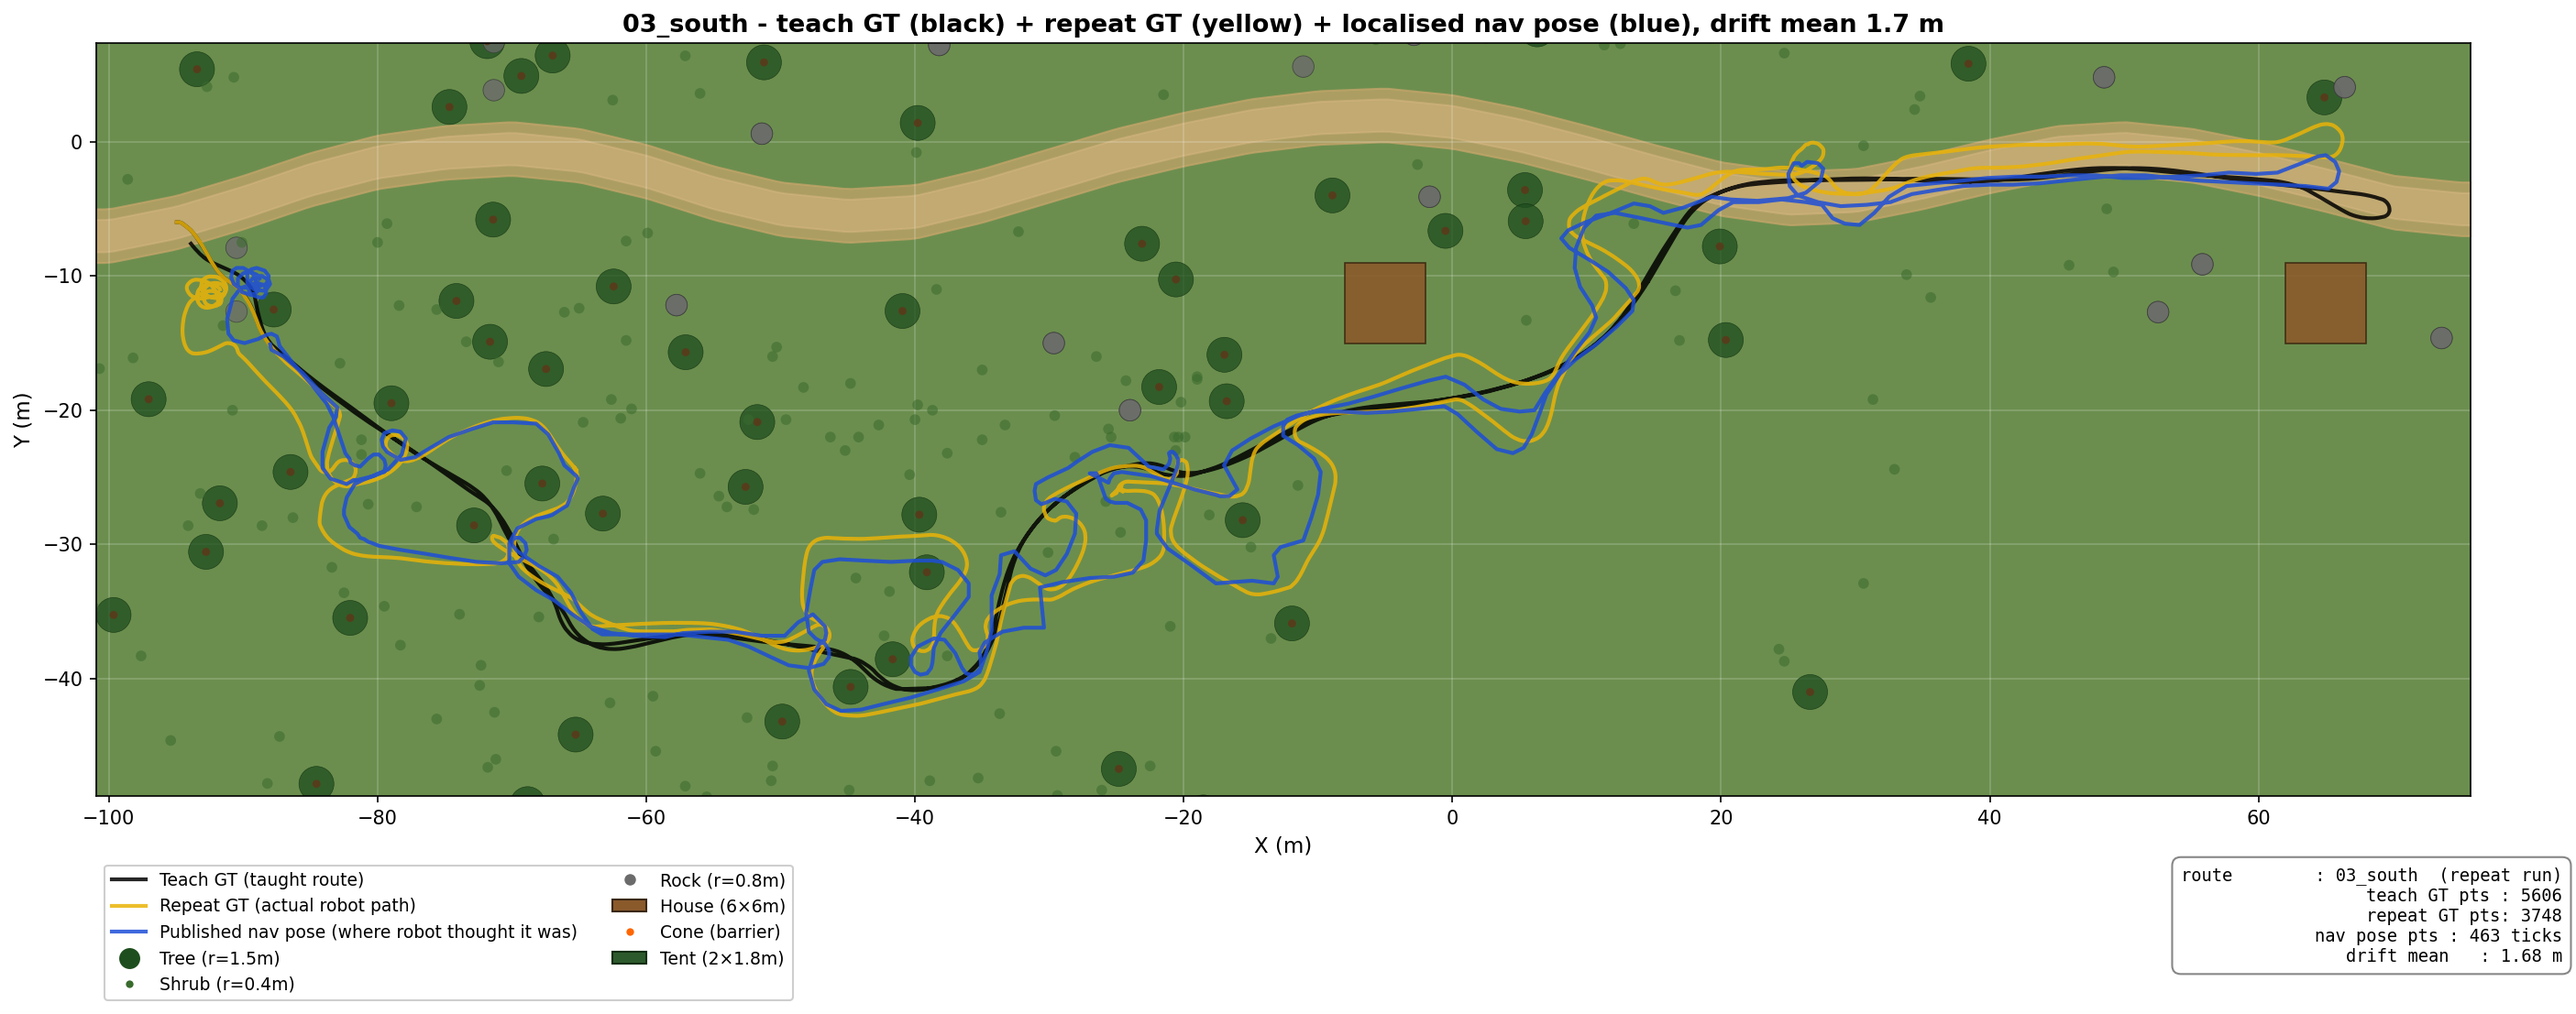
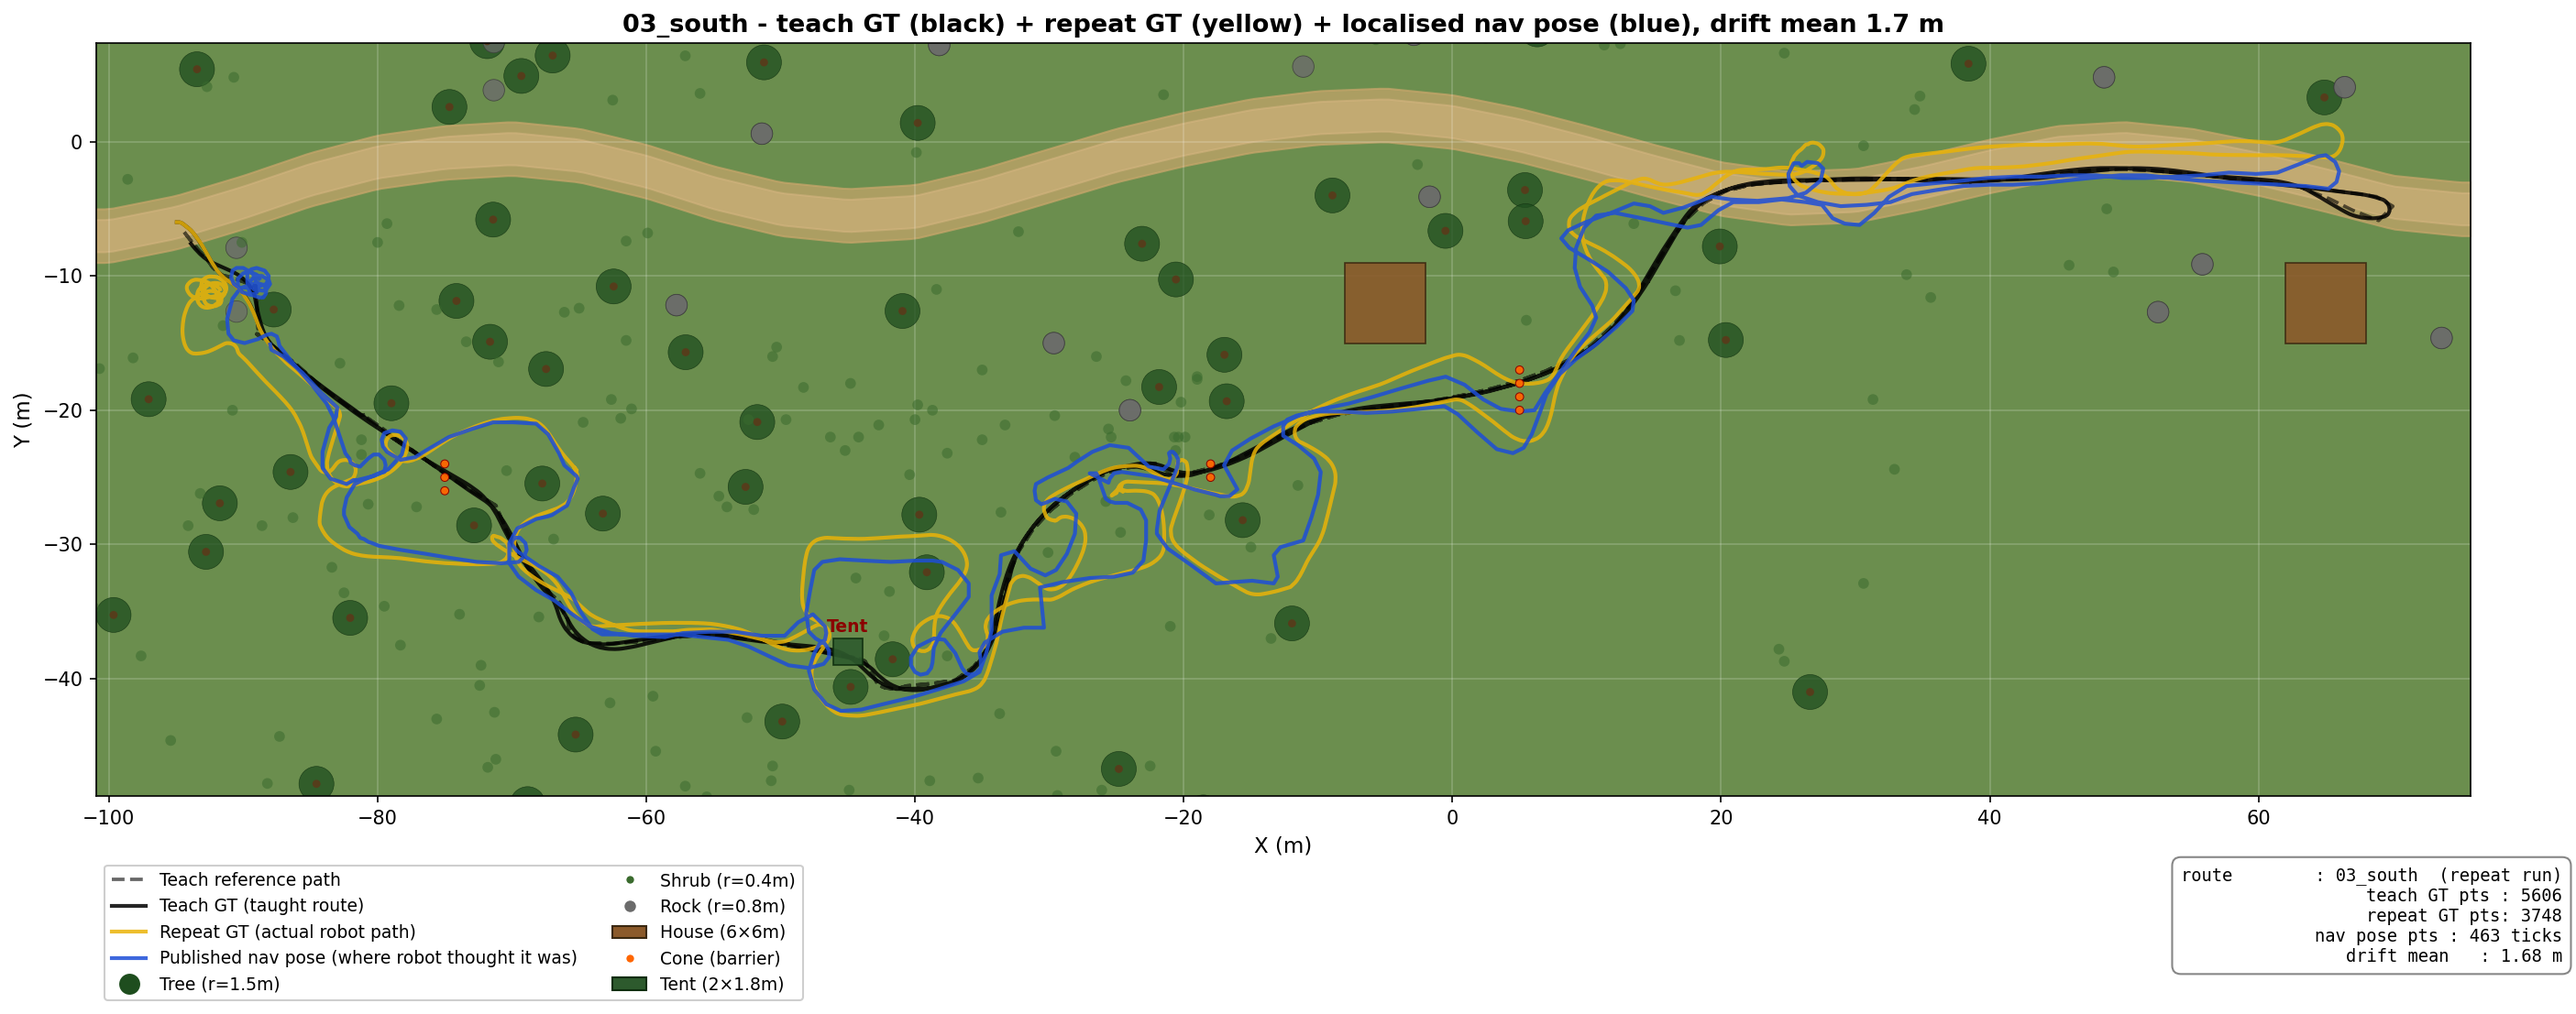
isaac/routes: draw legacy cones+tent on 03_south repeat trajectory plot

Changed region(s): [[0.031, 0.86, 0.3096, 0.9828], [0.3096, 0.6143, 0.3406, 0.6757]]

diff --git a/simulation/isaac/routes/_common/scripts/plot_repeat_trajectory.py b/simulation/isaac/routes/_common/scripts/plot_repeat_trajectory.py
@@ -19,6 +19,14 @@ TEACH_COL  = '#000000'   # black  - teach GT
 REPEAT_COL = '#eab308'   # yellow - repeat GT
 NAV_COL    = '#1d4ed8'   # blue   - published nav pose
 
+# legacy 01/02/03 routes used the old `road` / `north` / `south` keys in
+# OBSTACLES (cones + tent), so map them so the plot picks the obstacles up
+LEGACY_OBS_ALIAS = {
+    '01_road':         'road',
+    '02_north_forest': 'north',
+    '03_south':        'south',
+}
+
 
 NAV_RE = re.compile(
     r'nav=\(([\-\d.]+),([\-\d.]+)\)\s*gt=\(([\-\d.]+),([\-\d.]+)\)\s*err=([\-\d.]+)m')
@@ -154,7 +162,7 @@ def plot_one(route):
         metrics_lines=metrics,
         with_obstacles=True,
         with_waypoints=False,
-        route=route,
+        route=LEGACY_OBS_ALIAS.get(route, route),
         reference_csv=None,
         xlim=xlim, ylim=ylim,
         figsize=figsize,
